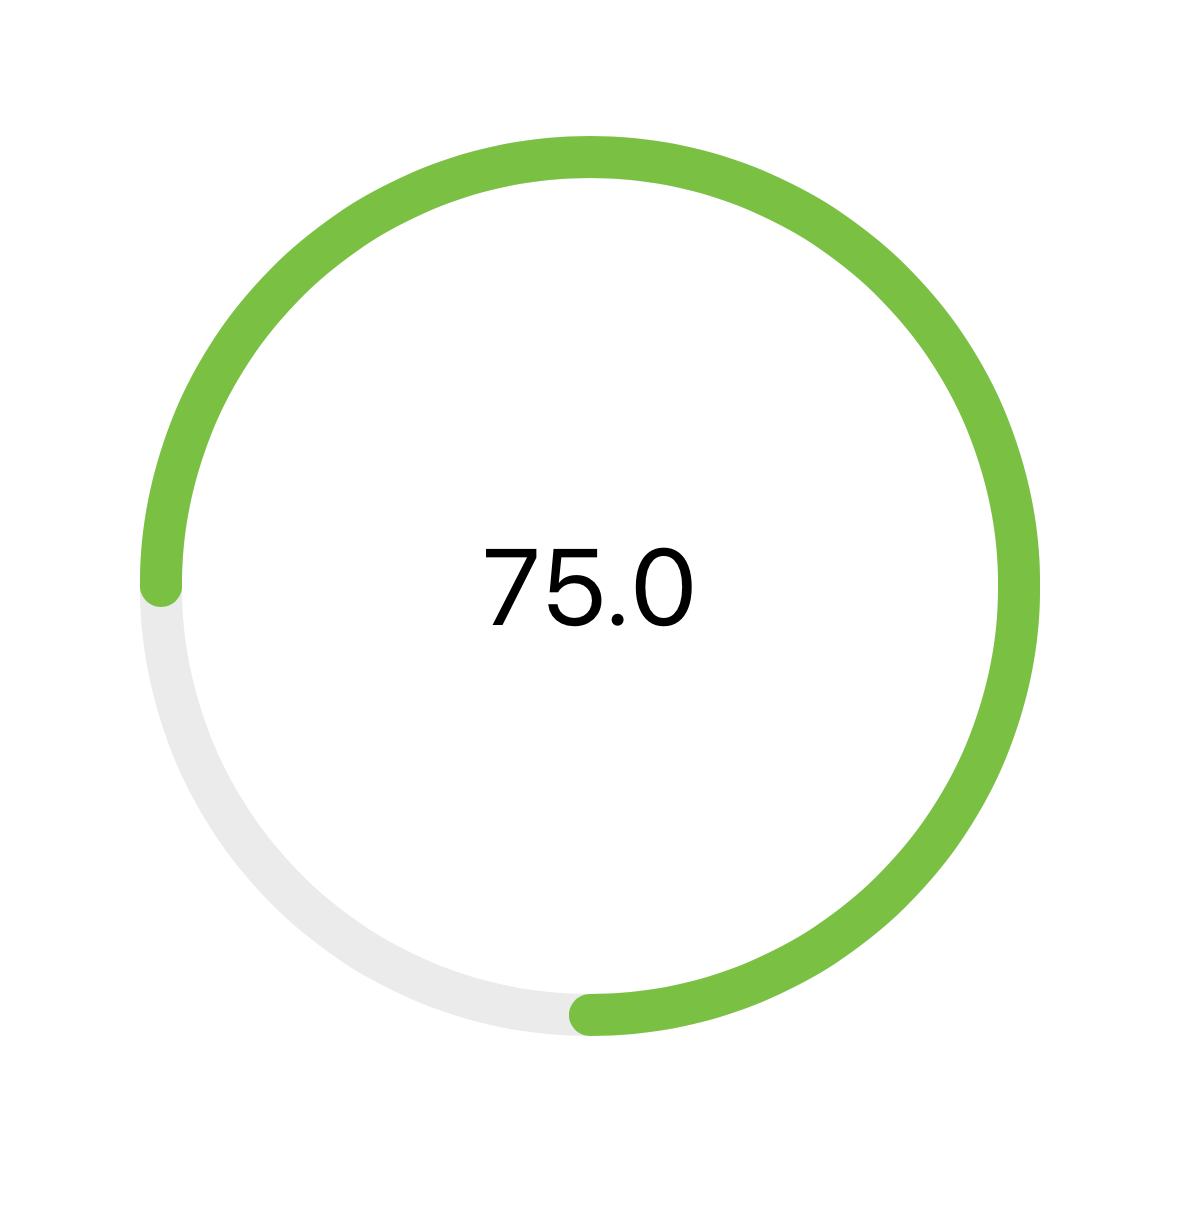
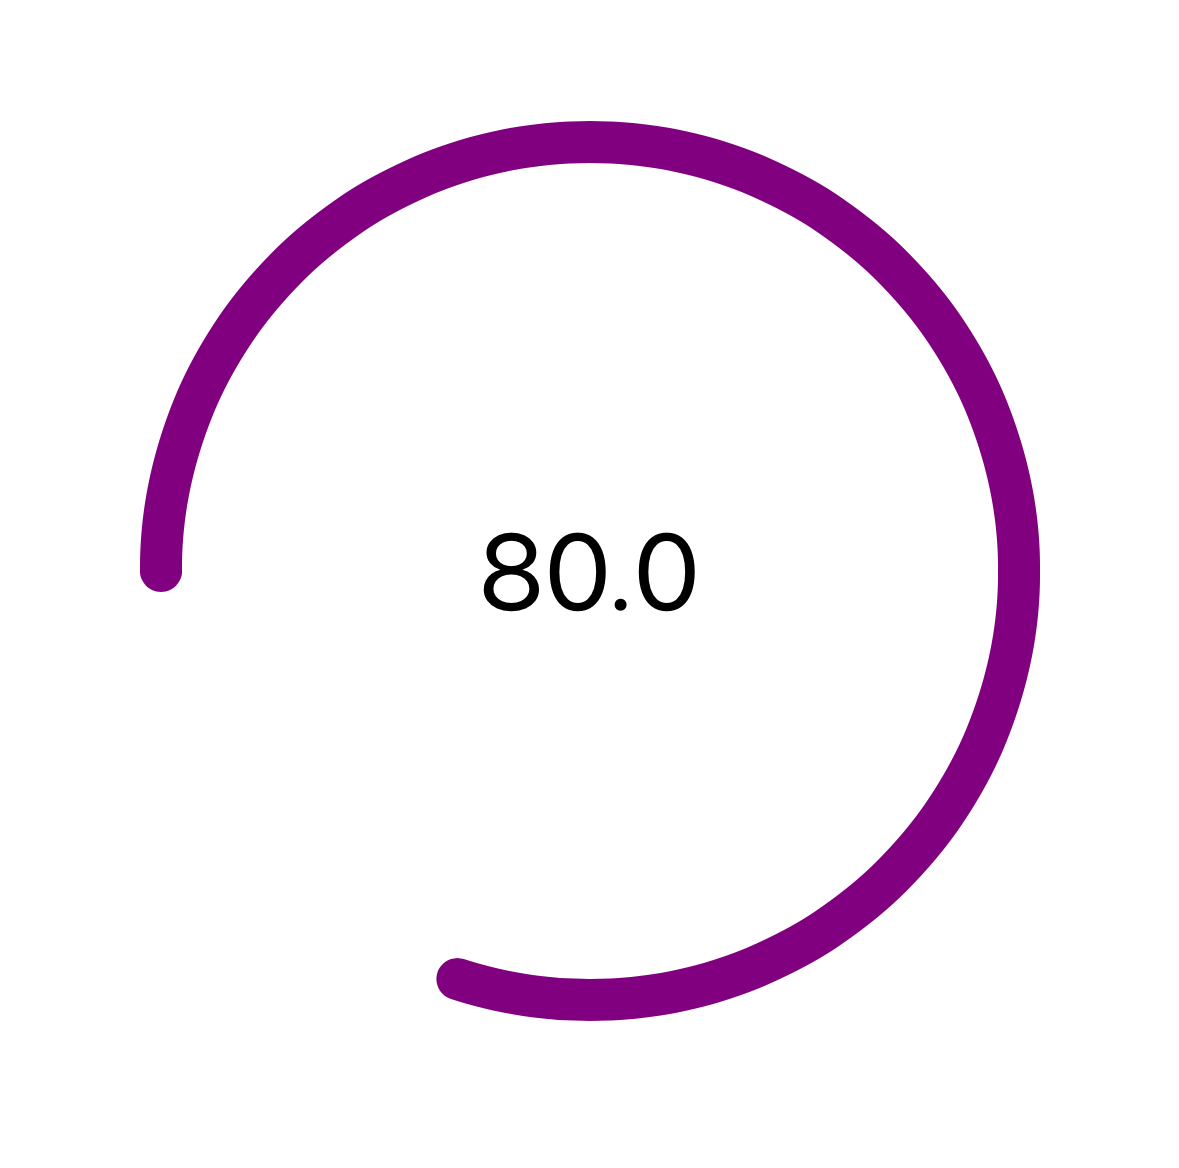
update
update

Changed region(s): [[0.0916, 0.0925, 0.8855, 0.8938], [0.3969, 0.4315, 0.6107, 0.524]]

diff --git a/DashBoardDemo/MDashBoard.m b/DashBoardDemo/MDashBoard.m
@@ -10,11 +10,13 @@
 
 @interface MDashBoard ()
 
+@property (nonatomic, strong) UILabel *contentLabel;
+
 @property (nonatomic, assign) CGFloat radius;
 @property (nonatomic, assign) CGPoint centerPoint;
 
 @property (nonatomic, assign) CGFloat count;
-@property (nonatomic, strong) UILabel *contentLabel;
+@property (nonatomic, assign) CGFloat rate;
 
 @end
 
@@ -32,8 +34,7 @@
 #pragma mark - Publick Method
 
 - (void)setupInterface {
-    CGFloat rate = self.circleType == MDashBoardTypeHalf ? 1.0 : 2.0;
-    self.centerPoint = CGPointMake(self.frame.size.width/2.0, self.frame.size.height/rate);
+    self.centerPoint = CGPointMake(self.frame.size.width/2.0, self.frame.size.height/self.rate);
     
     [self removeAllSubLayers];
     [self drawBackGrayCircle];
@@ -48,10 +49,20 @@
 
 - (void)setupInterfaceWithValue:(double)value color:(UIColor *)color {
     self.currentValue = value;
-    if (color) {
-        self.strokeColor = color;
-    }
+    self.strokeColor = color;
     [self setupInterface];
+}
+
+- (void)resetInterface {
+    self.showAnimation = YES;
+    self.animationDuration = 1.0f;
+    self.maxValue = 100;
+    
+    self.circleType = MDashBoardTypeHalf;
+    self.lineWidth = 0;
+    self.currentValue = 0;
+    self.strokeColor = nil;
+    self.bgColor = nil;
 }
 
 #pragma mark - Private Method
@@ -73,8 +84,7 @@
 
 - (void)drawCircle {
     UIBezierPath *circlePath = [[UIBezierPath alloc] init];
-    CGFloat rate = self.circleType == MDashBoardTypeHalf ? 1.0 : 2.0;
-    CGFloat endAngle = self.currentValue * rate/self.maxValue * M_PI - M_PI;
+    CGFloat endAngle = self.currentValue * self.rate/self.maxValue * M_PI - M_PI;
     [circlePath addArcWithCenter:self.centerPoint radius:self.radius startAngle:-M_PI endAngle:endAngle clockwise:YES];
 
     CAShapeLayer *circleLayer = [[CAShapeLayer alloc] init];
@@ -156,6 +166,11 @@
     return _lineWidth;
 }
 
+- (CGFloat)rate {
+    CGFloat result = self.circleType == MDashBoardTypeHalf ? 1.0 : 2.0;
+    return result;
+}
+
 - (UIColor *)strokeColor {
     if (!_strokeColor) {
         _strokeColor = [UIColor colorWithRed:122/255.0 green:193/255.0 blue:67/255.0 alpha:1];
@@ -165,7 +180,7 @@
 
 - (UIColor *)bgColor {
     if (!_bgColor) {
-        _bgColor = [UIColor colorWithRed:235/255.0 green:235/255.0 blue:235/255.0 alpha:1];
+        _bgColor = [UIColor clearColor];
     }
     return _bgColor;
 }

diff --git a/DashBoardDemo/ViewController.m b/DashBoardDemo/ViewController.m
@@ -31,15 +31,15 @@
     }];
     
     dispatch_after(dispatch_time(DISPATCH_TIME_NOW, (int64_t)(1 * NSEC_PER_SEC)), dispatch_get_main_queue(), ^{
-        dashBoard.currentValue = 30;
+        dashBoard.currentValue = 70;
+        dashBoard.circleType = MDashBoardTypeAll;
         dashBoard.strokeColor = [UIColor purpleColor];
-        dashBoard.circleType = MDashBoardTypeHalf;
+        dashBoard.lineWidth = 20;
         [dashBoard setupInterface];
         
         dispatch_after(dispatch_time(DISPATCH_TIME_NOW, (int64_t)(1 * NSEC_PER_SEC)), dispatch_get_main_queue(), ^{
-            dashBoard.strokeColor = nil;
-            dashBoard.circleType = MDashBoardTypeAll;
-            [dashBoard setupInterfaceWithValue:75];
+            [dashBoard resetInterface];
+            [dashBoard setupInterfaceWithValue:80];
         });
     });
 }

diff --git a/DashBoardDemo/MDashBoard.h b/DashBoardDemo/MDashBoard.h
@@ -14,6 +14,7 @@ typedef NS_ENUM(NSUInteger, MDashBoardCircleType) {
 
 @interface MDashBoard : UIView
 
+/// The default style is semicircle.
 @property(nonatomic, assign) MDashBoardCircleType circleType;
 /// The default value is Yes.
 @property (nonatomic, assign) BOOL showAnimation;
@@ -33,5 +34,7 @@ typedef NS_ENUM(NSUInteger, MDashBoardCircleType) {
 - (void)setupInterface;
 - (void)setupInterfaceWithValue:(double)value;
 - (void)setupInterfaceWithValue:(double)value color:(UIColor *)color;
+/// Default Setting.
+- (void)resetInterface;
 
 @end

diff --git a/README.md b/README.md
@@ -2,6 +2,6 @@
 
 
 
-![example01](example01.png)
+![semicircle](example01.png)
 
-![example02](example02.png)
+![circle](example02.png)
